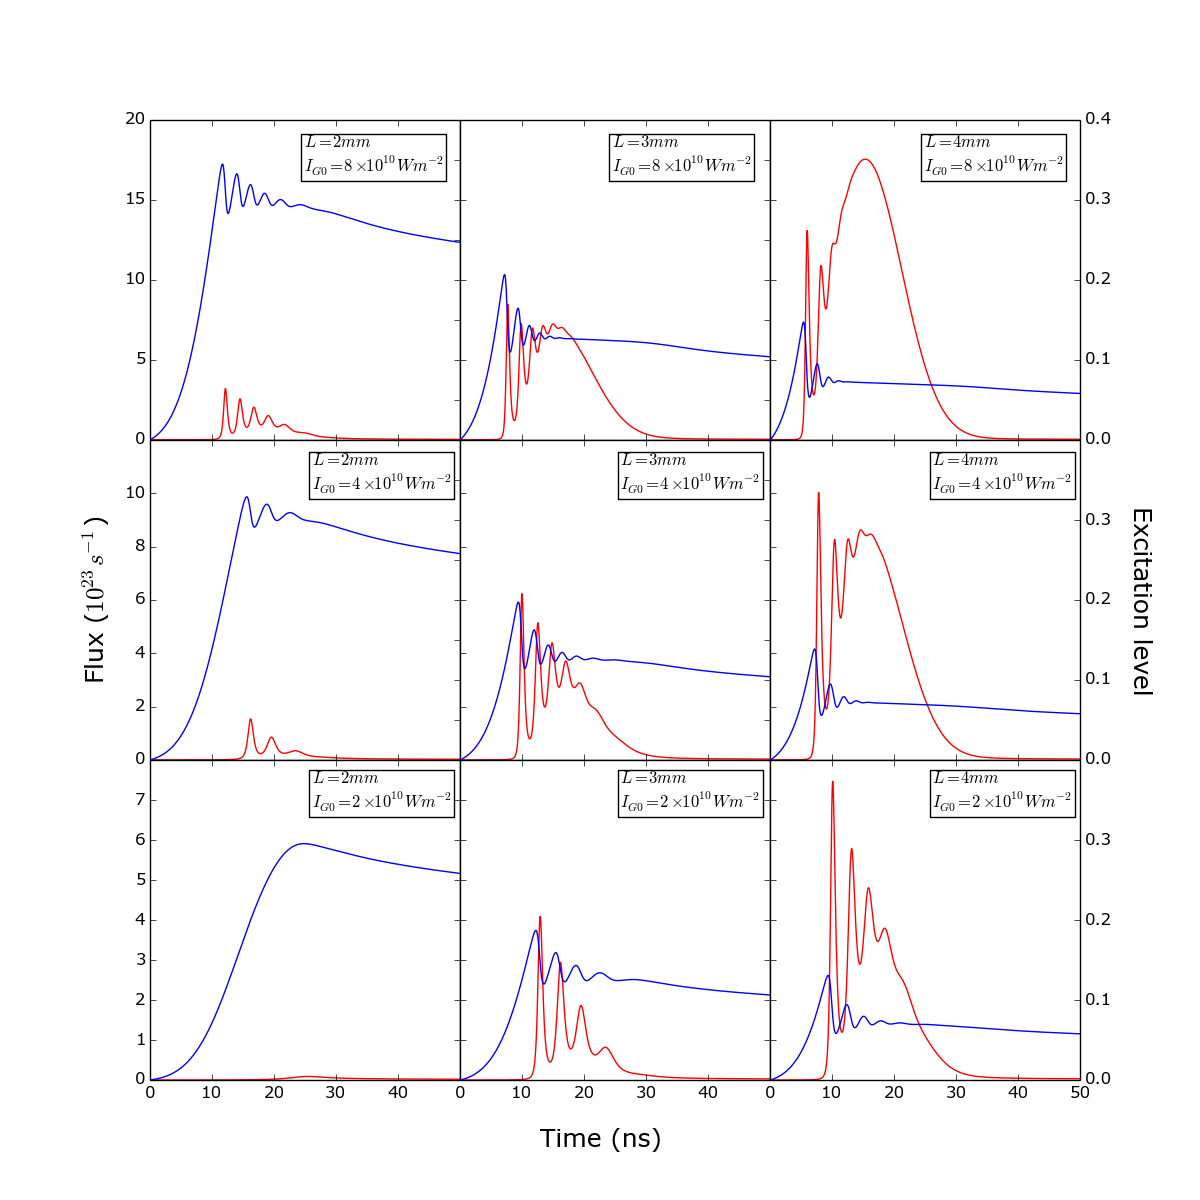
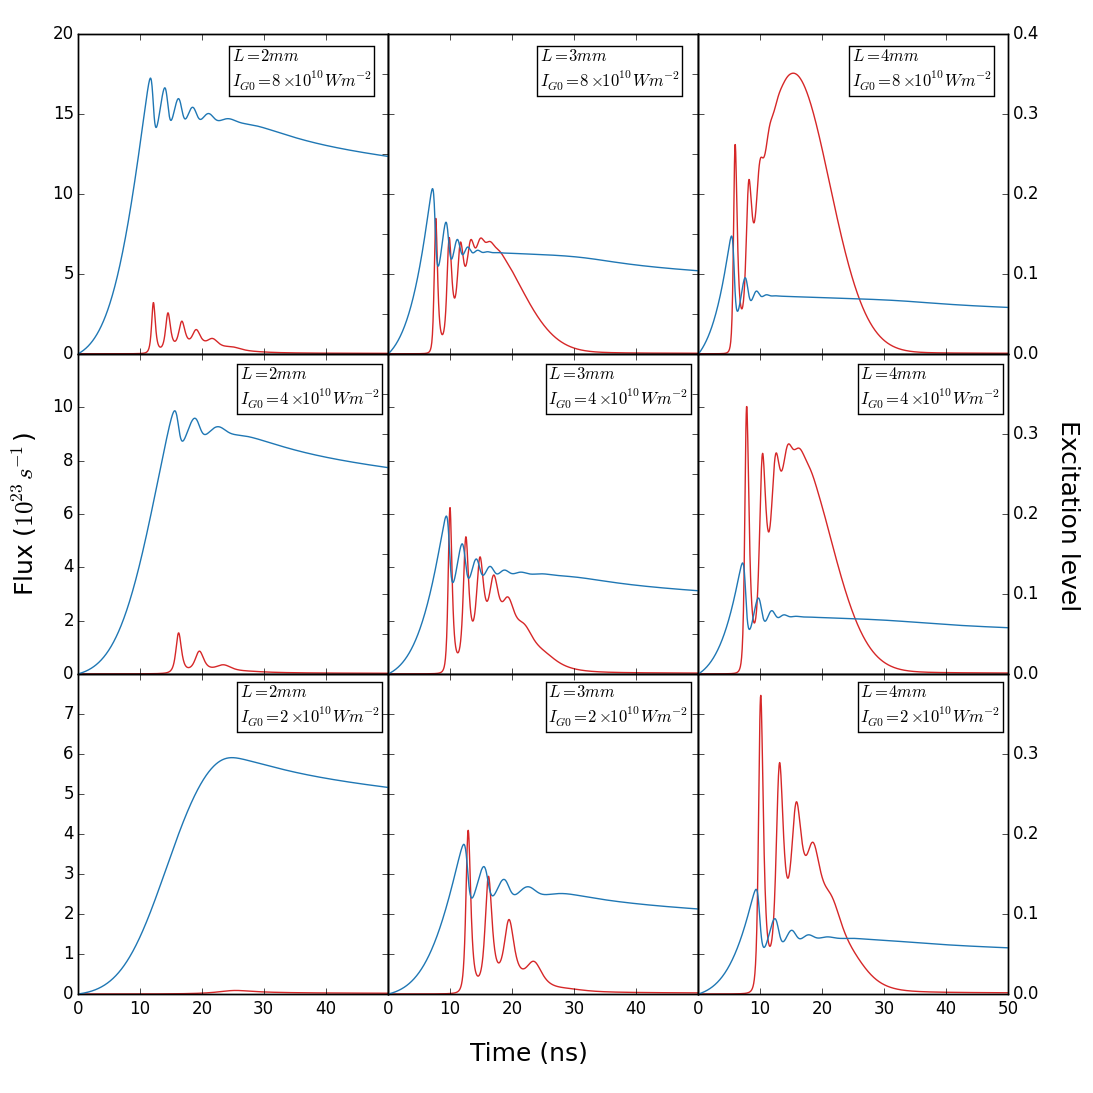
Update 2D megaplot with tableau20 colors

diff --git a/.graphs/26Feb/megaplot.py b/.graphs/26Feb/megaplot.py
@@ -2,6 +2,16 @@ import numpy as np
 from matplotlib import pyplot as plt
 from scipy import constants as spc
 
+# Tableau20 definitions
+tableau20 = [(31, 119, 180), (174, 199, 232), (255, 127, 14), (255, 187, 120),  
+             (44, 160, 44), (152, 223, 138), (214, 39, 40), (255, 152, 150),  
+             (148, 103, 189), (197, 176, 213), (140, 86, 75), (196, 156, 148),  
+             (227, 119, 194), (247, 182, 210), (127, 127, 127), (199, 199, 199),  
+             (188, 189, 34), (219, 219, 141), (23, 190, 207), (158, 218, 229)] 
+for i in range(len(tableau20)):  
+    r, g, b = tableau20[i]  
+    tableau20[i] = (r / 255., g / 255., b / 255.)
+
 c = spc.c/1.35 # speed of light in medium
 E_A = 6.63e-34*c/700e-9
 
@@ -37,90 +47,90 @@ fig, ax = plt.subplots(3,3,figsize=(12,12))
 fig.subplots_adjust(hspace = .001, wspace = .001)
 
 #Plot everything
-ax[0,0].plot(time, flux1x4,'r')
+ax[0,0].plot(time, flux1x4, color=tableau20[6])
 ax[0,0].set_ylim((0,20))
 ax[0,0].set_xticklabels(())
 ax[0,0].set_yticklabels(np.arange(0,20+1,5))
 ax2 = ax[0,0].twinx()
-ax2.plot(time, N1x4[:,12],'b')
+ax2.plot(time, N1x4[:,12], color=tableau20[0])
 ax2.set_yticklabels(())
 ax2.set_ylim(0,0.4)
 
-ax[0,1].plot(time, flux2x4,'r')
+ax[0,1].plot(time, flux2x4, color=tableau20[6])
 ax[0,1].set_ylim((0,20))
 ax[0,1].set_xticklabels(())
 ax[0,1].set_yticklabels(np.arange(0,20+1,5))
 ax[0,1].set_yticklabels(())
 ax2 = ax[0,1].twinx()
-ax2.plot(time, N2x4[:,22],'b')
+ax2.plot(time, N2x4[:,22], color=tableau20[0])
 ax2.set_yticklabels(())
 ax2.set_ylim(0,0.4)
 
-ax[0,2].plot(time, flux3x4,'r')
+ax[0,2].plot(time, flux3x4, color=tableau20[6])
 ax[0,2].set_ylim((0,20))
 ax[0,2].set_xticklabels(())
 ax[0,2].set_yticklabels(np.arange(0,20+1,5))
 ax[0,2].set_yticklabels(())
 ax2 = ax[0,2].twinx()
-ax2.plot(time, N3x4[:,32],'b')
+ax2.plot(time, N3x4[:,32], color=tableau20[0])
 ax2.set_yticks(np.arange(0, 0.4+0.1, 0.1))
 ax2.set_ylim(0,0.4)
 
-ax[1,0].plot(time, flux1x2,'r')
+ax[1,0].plot(time, flux1x2, color=tableau20[6])
 ax[1,0].set_ylim((0,12))
 ax[1,0].set_xticklabels(())
 ax[1,0].set_yticklabels(np.arange(0,10+1,2))
 ax2 = ax[1,0].twinx()
-ax2.plot(time, N1x2[:,12],'b')
+ax2.plot(time, N1x2[:,12], color=tableau20[0])
 ax2.set_yticklabels(())
 ax2.set_ylim(0,0.4)
 
-ax[1,1].plot(time, flux2x2,'r')
+ax[1,1].plot(time, flux2x2, color=tableau20[6])
 ax[1,1].set_ylim((0,12))
 ax[1,1].set_xticklabels(())
 ax[1,1].set_yticklabels(np.arange(0,10+1,2))
 ax[1,1].set_yticklabels(())
 ax2 = ax[1,1].twinx()
-ax2.plot(time, N2x2[:,22],'b')
+ax2.plot(time, N2x2[:,22], color=tableau20[0])
 ax2.set_yticklabels(())
 ax2.set_ylim(0,0.4)
 
-ax[1,2].plot(time, flux3x2,'r')
+ax[1,2].plot(time, flux3x2, color=tableau20[6])
 ax[1,2].set_ylim((0,12))
 ax[1,2].set_xticklabels(())
 ax[1,2].set_yticklabels(np.arange(0,10+1,2))
 ax[1,2].set_yticklabels(())
 ax2 = ax[1,2].twinx()
-ax2.plot(time, N3x2[:,32],'b')
+ax2.plot(time, N3x2[:,32], color=tableau20[0])
 ax2.set_yticks(np.arange(0, 0.3+0.1, 0.1))
 ax2.set_ylim(0,0.4)
 
-ax[2,0].plot(time, flux1x1,'r')
+ax[2,0].plot(time, flux1x1, color=tableau20[6])
 ax[2,0].set_ylim((0,8))
 ax[2,0].set_xticklabels([0,10,20,30,40])
 ax[2,0].set_yticklabels(np.arange(0,7+1,1))
 ax2 = ax[2,0].twinx()
-ax2.plot(time, N1x1[:,12],'b')
+ax2.plot(time, N1x1[:,12], color=tableau20[0])
 ax2.set_yticklabels(())
 ax2.set_ylim(0,0.4)
 
-ax[2,1].plot(time, flux2x1,'r')
+ax[2,1].plot(time, flux2x1, color=tableau20[6])
 ax[2,1].set_ylim((0,8))
 ax[2,1].set_xticklabels([0,10,20,30,40])
 ax[2,1].set_yticklabels(np.arange(0,7+1,1))
 ax[2,1].set_yticklabels(())
 ax2 = ax[2,1].twinx()
-ax2.plot(time, N2x1[:,22],'b')
+ax2.plot(time, N2x1[:,22], color=tableau20[0])
 ax2.set_yticklabels(())
 ax2.set_ylim(0,0.4)
 
-ax[2,2].plot(time, flux3x1,'r')
+ax[2,2].plot(time, flux3x1, color=tableau20[6])
 ax[2,2].set_ylim((0,8))
 ax[2,2].set_xticklabels([0,10,20,30,40,50])
 ax[2,2].set_yticklabels(np.arange(0,7+1,1))
 ax[2,2].set_yticklabels(())
 ax2 = ax[2,2].twinx()
-ax2.plot(time, N3x1[:,32],'b')
+ax2.plot(time, N3x1[:,32], color=tableau20[0])
 ax2.set_yticks(np.arange(0, 0.3+0.1, 0.1))
 ax2.set_ylim(0,0.4)
 
@@ -142,4 +152,4 @@ fig.text(0.777, 0.325, r'$L = 4 mm$''\n'r'$I_{G0} = 2\times10^{10}Wm^{-2}$', bbo
 fig.text(0.777, 0.59, r'$L = 4 mm$''\n'r'$I_{G0} = 4\times10^{10}Wm^{-2}$', bbox=dict(facecolor='none',edgecolor='black'))
 fig.text(0.77, 0.855, r'$L = 4 mm$''\n'r'$I_{G0} = 8\times10^{10}Wm^{-2}$', bbox=dict(facecolor='none',edgecolor='black'))
 
-fig.savefig('2D system length and pump variation.png')
+fig.savefig('2D system length and pump variation2.png')
